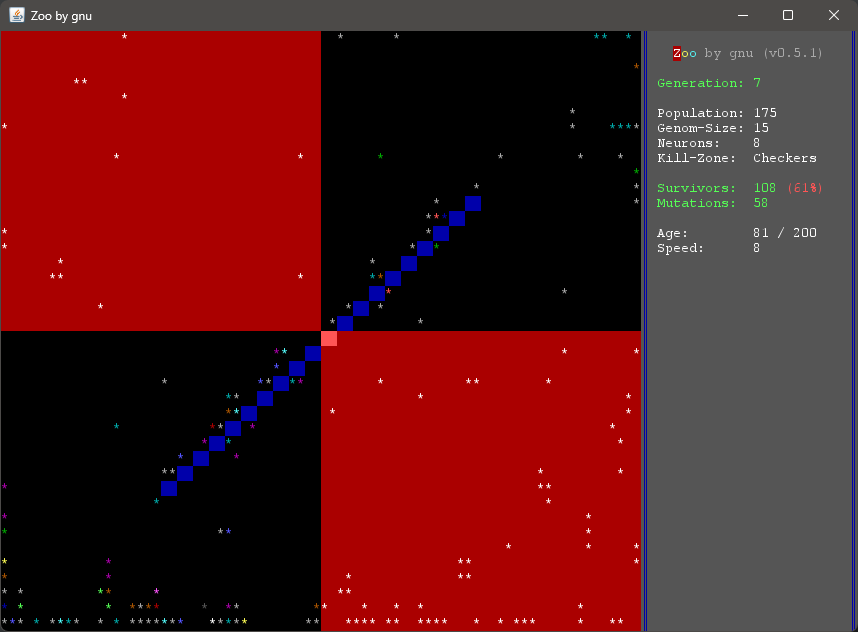
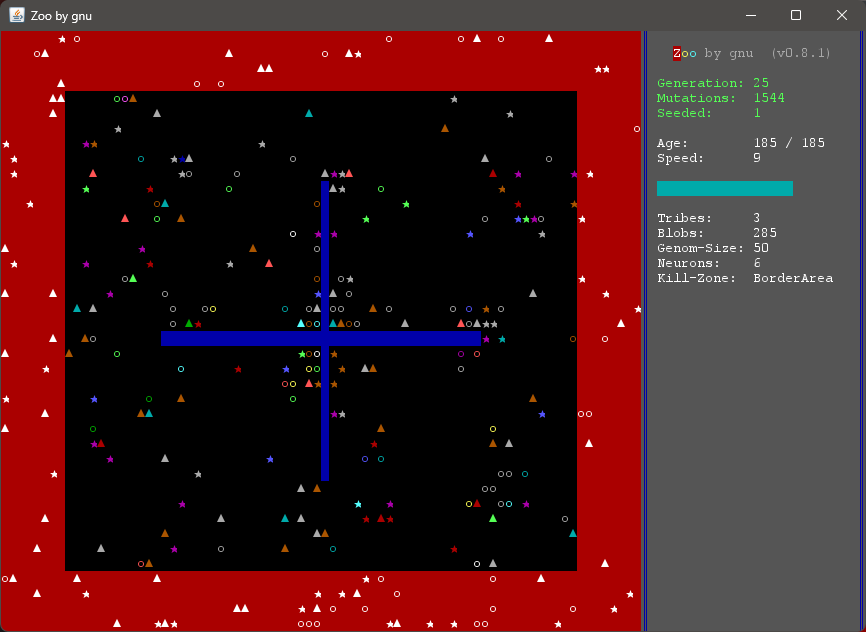
Zoo-0.8.1: new wall and new kill-zone

diff --git a/src/main/kotlin/at/gnu/zoo/Population.kt b/src/main/kotlin/at/gnu/zoo/Population.kt
@@ -4,21 +4,21 @@ import kotlin.random.Random
 
 class Population(val tribe: Int, val world: World, val blobs: MutableList<Blob> = mutableListOf()) {
 
-    fun reproduce(newBlobs: MutableList<Blob> = mutableListOf()) {
+    fun reproduce(children: MutableList<Blob> = mutableListOf()) {
         val mutationRate = (100 * (world.context.blobs - world.context.survivors)) / world.context.blobs
         blobs.removeIf { !it.alive }
         val positions = mutableSetOf<Position>()
-        val blobsRequired = (world.context.blobs / world.context.tribes) - newBlobs.size
+        val blobsRequired = (world.context.blobs / world.context.tribes) - children.size
         repeat(blobsRequired.coerceAtMost(world.freeSpots())) {
             var newBlob: Blob
             do {
                 newBlob = blobs.createOffspring(mutationRate)
             } while (newBlob.position in positions)
-            newBlobs += newBlob
+            children += newBlob
             positions += newBlob.position
         }
         blobs.clear()
-        blobs += newBlobs
+        blobs += children
     }
 
     fun killBlob(x: Int, y: Int) =
@@ -33,16 +33,15 @@ class Population(val tribe: Int, val world: World, val blobs: MutableList<Blob> 
 
     private fun List<Blob>.createOffspring(mutationRate: Int): Blob {
         val position = Position.randomPosition(world)
-        val blob = if (isEmpty()) Blob.randomBlob(world, tribe) else this[Random.nextInt(size)]
-        val genom = blob.brain.genom
-        val genom2 = if (isEmpty()) Blob.randomBlob(world).brain.genom else this[Random.nextInt(size)].brain.genom
-        val cutPosition = Random.nextInt(genom.length)
-        val newGenom = genom.substring(0, cutPosition) + genom2.substring(cutPosition)
+        val fatherGenom = (if (isEmpty()) Brain.randomBrain(world.context) else this[Random.nextInt(size)].brain).genom
+        val motherGenom = (if (isEmpty()) Brain.randomBrain(world.context) else this[Random.nextInt(size)].brain).genom
+        val cutPosition = Random.nextInt(fatherGenom.length)
+        val childGenom = fatherGenom.substring(0, cutPosition) + motherGenom.substring(cutPosition)
         if (Random.nextInt(10000) >= (world.context.genomSize * mutationRate))
-            return Blob(Brain(newGenom), position)
+            return Blob(Brain(childGenom), position, tribe)
         world.context.mutations++
-        val mutatedGenom = mutateGenom(newGenom)
-        return Blob(Brain(mutatedGenom), position, tribe)
+        val mutatedChildGenom = mutateGenom(childGenom)
+        return Blob(Brain(mutatedChildGenom), position, tribe)
     }
 
     private fun mutateGenom(genom: String): String {
@@ -50,8 +49,8 @@ class Population(val tribe: Int, val world: World, val blobs: MutableList<Blob> 
         val gene = Integer.toBinaryString(genom[genomPosition].toString().toInt(16))!!.padStart(4, '0')
         val genePosition = Random.nextInt(gene.length)
         val newValue = if (gene[genePosition] == '0') '1' else '0'
-        val newGene = gene.substring(0, genePosition) + newValue + gene.substring(genePosition + 1)
-        return genom.substring(0, genomPosition) + Integer.toHexString(Integer.parseInt(newGene, 2)) +
+        val mutatedGene = gene.substring(0, genePosition) + newValue + gene.substring(genePosition + 1)
+        return genom.substring(0, genomPosition) + Integer.toHexString(Integer.parseInt(mutatedGene, 2)) +
                 genom.substring(genomPosition + 1)
     }
 

diff --git a/src/main/kotlin/at/gnu/zoo/World.kt b/src/main/kotlin/at/gnu/zoo/World.kt
@@ -15,14 +15,15 @@ class World(val context: Context) {
     private var oszillatorIncrement = -1
 
     enum class Walls {
-        None, Vertical, Horizontal, Plus, Slash, Grid;
+        None, Vertical, Horizontal, Plus, Slash, Grid, Crosshair;
         companion object {
             fun randomType() = values().random()
         }
     }
 
     enum class KillZone {
-        EasternHalf, WesternHalf, NorthernHalf, SouthernHalf, BorderArea, CenterArea, NorthSouth, EastWest, Checkers;
+        EasternHalf, WesternHalf, NorthernHalf, SouthernHalf, BorderArea, CenterArea, NorthSouth, EastWest, Checkers,
+        Corners;
         companion object {
             fun randomType() = values().random()
         }
@@ -39,7 +40,7 @@ class World(val context: Context) {
         oszillator = 0
         area.indices.forEach { y -> area[y].indices.forEach { x -> if (area[y][x] > EMPTY) area[y][x] = EMPTY } }
         this.populations = populations
-        populations.forEach { it.blobs.forEach { area[it.position.y][it.position.x] = 1 } }
+        populations.forEach { population -> population.blobs.forEach { area[it.position.y][it.position.x] = 1 } }
         return this
     }
 
@@ -129,6 +130,10 @@ class World(val context: Context) {
             Grid -> (0 until (2 * yMax / 5)).forEach { y -> (0 until (2 * xMax / 5)).forEach { x ->
                 this[(yMax / 10) + (2 * y)][(xMax / 10) + (2 * x)] = WALL
             } }
+            Crosshair -> {
+                (0 until (xMax / 3)).forEach { x -> this[yMax / 2][x] = WALL; this[yMax / 2][xMax - x - 1] = WALL }
+                (0 until (yMax / 3)).forEach { y -> this[y][xMax / 2] = WALL; this[yMax - y - 1][xMax / 2] = WALL }
+            }
         }
     }
 
@@ -174,6 +179,14 @@ class World(val context: Context) {
                 (0 until xMax).forEach { x ->
                     this[y][x] = if (((x < (xMax / 2)) && (y < (yMax / 2)))
                         || ((x >= (xMax / 2)) && (y >= (yMax / 2)))) 1 else 0
+                }
+            }
+            Corners -> indices.forEach { y ->
+                (0 until xMax).forEach { x ->
+                    this[y][x] = if (((x < (xMax / 4)) && (y < (yMax / 4)))
+                        || ((x >= (xMax - (xMax / 4))) && (y >= (yMax - (yMax / 4))))
+                        || ((x >= (xMax - (xMax / 4))) && (y < (yMax / 4)))
+                        || ((x < (xMax / 4)) && (y >= (yMax - (yMax / 4))))) 1 else 0
                 }
             }
         }

diff --git a/src/main/kotlin/at/gnu/zoo/Terminal.kt b/src/main/kotlin/at/gnu/zoo/Terminal.kt
@@ -97,7 +97,7 @@ class Terminal(size: Size) : Renderer, Input {
             world.populations.forEach { population ->
                 population.blobs.forEach {
                     if (world.isKillarea(it.position.x, it.position.y))
-                        setCharacterInBackbuffer(population.tribe, it.position.x, it.position.y, it.alive, Color.WHITE, RED)
+                        setCharacterInBackbuffer(population.tribe, it.position.x, it.position.y, false, it.color)
                     else
                         setCharacterInBackbuffer(population.tribe, it.position.x, it.position.y, it.alive, it.color)
                 }
@@ -177,12 +177,13 @@ class Terminal(size: Size) : Renderer, Input {
     private fun setCharacterInBackbuffer(tribe: Int, x: Int, y: Int, alive: Boolean, color: Color,
                                          background: TextColor = BLACK) {
         val cellToModify = TerminalPosition(x, y)
-        val foreground = color.toForegroundColor()
-        val foregroundColor = if (foreground == background) WHITE_BRIGHT else foreground
         // ×o+*øƟ⁜⁕※∆∅⊞⊟⊕⊗⊙⊚⊛⊠⊡⋈⎈⎕⎊①②③④⑤⑥⑦⑧⑨▢▣△▽◇◉○◌◻✫✻♥♣★◈∎◍
-        val character = if (alive) "♣★▲o♥"[tribe % 5] else 'x'
+        val character = "♣★o▲♥"[tribe % 5]
+        val foreground = color.toForegroundColor()
+        val foregroundColor = if (!alive || (foreground == background)) WHITE_BRIGHT else foreground
+        val backgroundColor = if (alive) background else RED
         screen.setCharacter(cellToModify, screen.getBackCharacter(cellToModify)
-            .withForegroundColor(foregroundColor).withBackgroundColor(background).withCharacter(character))
+            .withForegroundColor(foregroundColor).withBackgroundColor(backgroundColor).withCharacter(character))
     }
 
     private fun clearCharacterInBackbuffer(x: Int, y: Int) {

diff --git a/src/main/kotlin/at/gnu/zoo/Zoo.kt b/src/main/kotlin/at/gnu/zoo/Zoo.kt
@@ -24,14 +24,14 @@ fun main(args: Array<String>) {
     do {
         val genomSize = if (genom != null) (genom.length - 4) / Brain.geneSize else 5 + (5 * Random.nextInt(10))
         val innerNeurons = genom?.drop(2)?.take(2)?.toInt(16) ?: (2 + (2 * Random.nextInt(5)))
-        val populations = 1 + Random.nextInt(3)
+        val tribes = 1 + Random.nextInt(4)
         val context = defaultContext
             ?: Context(
                 version = Zoo.version,
                 generations = -1, // 100 + (100 * Random.nextInt(50)),
                 lifetime = 50 + (5 * Random.nextInt(50)),
-                tribes = populations,
-                blobs = populations * ((50 + (5 * Random.nextInt(size.maxX * size.maxY / 64))) / populations),
+                tribes = tribes,
+                blobs = tribes * ((50 + (5 * Random.nextInt(size.maxX * size.maxY / 64))) / tribes),
                 genomSize = genomSize,
                 innerNeurons = innerNeurons,
                 killNeuronActive = (Random.nextInt(10) > 8),
@@ -49,7 +49,7 @@ class Zoo(private val world: World, private val renderer: Renderer, private val 
           private val quiet: Boolean) {
 
     companion object {
-        const val version = "0.8.0"
+        const val version = "0.8.1"
         const val defaultDelay = 50L
         val log: Logger = LoggerFactory.getLogger(Zoo::class.java)
         val json = Json { encodeDefaults = true }

diff --git a/README.md b/README.md
@@ -17,7 +17,7 @@ Build with Apache Maven:
 Run in a Java Runtime:
 
 ```
-USAGE: java -jar target/zoo-0.8.0-jar-with-dependencies.jar [-c <context>] [-g <genom>] [-d <delay>] [-q] [-?]
+USAGE: java -jar target/zoo-0.8.1-jar-with-dependencies.jar [-c <context>] [-g <genom>] [-d <delay>] [-q] [-?]
 
     -c <context> ... always use this context
     -g <genom>   ... use this genom as starting-point for every simulation
